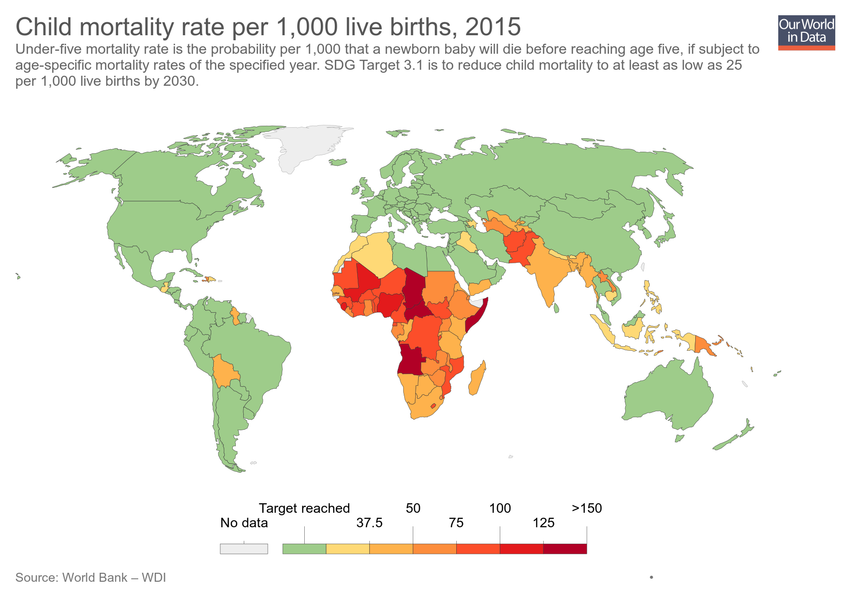
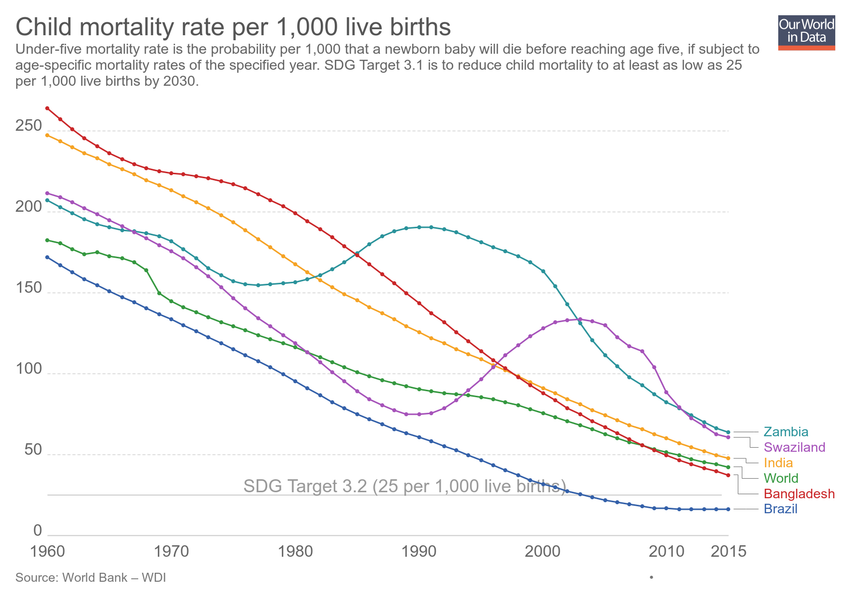
Updating chart child-mortality-sdgs

diff --git a/grapher/child-mortality-sdgs.html b/grapher/child-mortality-sdgs.html
@@ -1,4 +1,4 @@
-<!doctype html><html><head><meta name="viewport" content="width=device-width, initial-scale=1" /><title>Child mortality rate per 1,000 live births - Our World in Data</title><meta name="description" content="Under-five mortality rate is the probability per 1,000 that a newborn baby will die before reaching age five, if subject to age-specific mortality rates of the specified year. SDG Target 3.1 is to reduce child mortality to at least as low as 25 per 1,000 live births by 2030." /><link rel="canonical" href="https://ourworldindata.org/grapher/child-mortality-sdgs" /><meta property="fb:app_id" content="1149943818390250" /><meta property="og:url" content="https://ourworldindata.org/grapher/child-mortality-sdgs" /><meta property="og:title" content="Child mortality rate per 1,000 live births" /><meta property="og:description" content="Under-five mortality rate is the probability per 1,000 that a newborn baby will die before reaching age five, if subject to age-specific mortality rates of the specified year. SDG Target 3.1 is to reduce child mortality to at least as low as 25 per 1,000 live births by 2030." /><meta property="og:image" content="https://ourworldindata.org/grapher/exports/child-mortality-sdgs.png?v=4" /><meta property="og:image:width" content="850" /><meta property="og:image:height" content="600" /><meta property="og:site_name" content="Our World in Data" /><meta name="twitter:card" content="summary_large_image" /><meta name="twitter:site" content="@OurWorldInData" /><meta name="twitter:creator" content="@OurWorldInData" /><meta name="twitter:title" content="Child mortality rate per 1,000 live births" /><meta name="twitter:description" content="Under-five mortality rate is the probability per 1,000 that a newborn baby will die before reaching age five, if subject to age-specific mortality rates of the specified year. SDG Target 3.1 is to reduce child mortality to at least as low as 25 per 1,000 live births by 2030." /><meta name="twitter:image" content="https://ourworldindata.org/grapher/exports/child-mortality-sdgs.png?v=4" /><style>
+<!doctype html><html><head><meta name="viewport" content="width=device-width, initial-scale=1" /><title>Child mortality rate per 1,000 live births - Our World in Data</title><meta name="description" content="Under-five mortality rate is the probability per 1,000 that a newborn baby will die before reaching age five, if subject to age-specific mortality rates of the specified year. SDG Target 3.1 is to reduce child mortality to at least as low as 25 per 1,000 live births by 2030." /><link rel="canonical" href="https://ourworldindata.org/grapher/child-mortality-sdgs" /><meta property="fb:app_id" content="1149943818390250" /><meta property="og:url" content="https://ourworldindata.org/grapher/child-mortality-sdgs" /><meta property="og:title" content="Child mortality rate per 1,000 live births" /><meta property="og:description" content="Under-five mortality rate is the probability per 1,000 that a newborn baby will die before reaching age five, if subject to age-specific mortality rates of the specified year. SDG Target 3.1 is to reduce child mortality to at least as low as 25 per 1,000 live births by 2030." /><meta property="og:image" content="https://ourworldindata.org/grapher/exports/child-mortality-sdgs.png?v=6" /><meta property="og:image:width" content="850" /><meta property="og:image:height" content="600" /><meta property="og:site_name" content="Our World in Data" /><meta name="twitter:card" content="summary_large_image" /><meta name="twitter:site" content="@OurWorldInData" /><meta name="twitter:creator" content="@OurWorldInData" /><meta name="twitter:title" content="Child mortality rate per 1,000 live births" /><meta name="twitter:description" content="Under-five mortality rate is the probability per 1,000 that a newborn baby will die before reaching age five, if subject to age-specific mortality rates of the specified year. SDG Target 3.1 is to reduce child mortality to at least as low as 25 per 1,000 live births by 2030." /><meta name="twitter:image" content="https://ourworldindata.org/grapher/exports/child-mortality-sdgs.png?v=6" /><style>
         html, body {
             height: 100%;
             margin: 0;
@@ -20,8 +20,8 @@
         }
     </style><noscript><style>
                     figure { display: none !important; }
-                </style></noscript><link rel="stylesheet" href="https://ourworldindata.org/grapher/assets/commons.bundle.dcbbe53805c487d5e57617b10ac73a8a.css" /><link rel="preload" href="/grapher/data/variables/3398.json?v=4" as="fetch" crossorigin /></head><body class="singleChart"><figure data-grapher-src="/grapher/child-mortality-sdgs"></figure><noscript id="fallback"><img src="/grapher/exports/child-mortality-sdgs.svg" /><p>Interactive visualization requires JavaScript</p></noscript><script src="https://cdn.polyfill.io/v2/polyfill.min.js?features=es6,fetch"></script><script src="https://ourworldindata.org/grapher/assets/commons.bundle.da523acc49807a06a11f.js"></script><script src="https://ourworldindata.org/grapher/assets/charts.bundle.da523acc49807a06a11f.js"></script><script>
-        var jsonConfig = {"id":2653,"map":{"projection":"World","targetYear":2015,"variableId":3398,"equalSizeBins":true,"baseColorScheme":"YlOrRd","isManualBuckets":true,"colorSchemeLabels":["Target reached","","","","","",null],"colorSchemeValues":[25.1,37.5,50,75,100,125,150],"customColorsActive":true,"customNumericColors":["#9ecc8a",null,null,null,null,null],"customCategoryColors":{},"customCategoryLabels":{},"customHiddenCategories":{}},"tab":"map","slug":"child-mortality-sdgs","type":"LineChart","title":"Child mortality rate per 1,000 live births","xAxis":{"scaleType":"linear"},"yAxis":{"min":0,"scaleType":"linear"},"version":4,"subtitle":"Under-five mortality rate is the probability per 1,000 that a newborn baby will die before reaching age five, if subject to age-specific mortality rates of the specified year. SDG Target 3.1 is to reduce child mortality to at least as low as 25 per 1,000 live births by 2030.","hasMapTab":true,"stackMode":"absolute","dimensions":[{"display":{"unit":"deaths per 1,000 live births","conversionFactor":1},"property":"y","variableId":3398}],"hasChartTab":true,"isPublished":true,"selectedData":[{"index":0,"entityId":355},{"index":0,"entityId":137},{"index":0,"entityId":37},{"index":0,"entityId":60},{"index":0,"entityId":78},{"index":0,"entityId":28}],"internalNotes":"For SDG Tracker","addCountryMode":"add-country","comparisonLine":{"label":"SDG Target 3.1 (25 per 1,000)","yEquals":"25"}};
+                </style></noscript><link rel="stylesheet" href="https://ourworldindata.org/grapher/assets/commons.bundle.dcbbe53805c487d5e57617b10ac73a8a.css" /><link rel="preload" href="/grapher/data/variables/3398.json?v=6" as="fetch" crossorigin /></head><body class="singleChart"><figure data-grapher-src="/grapher/child-mortality-sdgs"></figure><noscript id="fallback"><img src="/grapher/exports/child-mortality-sdgs.svg" /><p>Interactive visualization requires JavaScript</p></noscript><script src="https://cdn.polyfill.io/v2/polyfill.min.js?features=es6,fetch"></script><script src="https://ourworldindata.org/grapher/assets/commons.bundle.da523acc49807a06a11f.js"></script><script src="https://ourworldindata.org/grapher/assets/charts.bundle.da523acc49807a06a11f.js"></script><script>
+        var jsonConfig = {"id":2653,"map":{"projection":"World","targetYear":2015,"variableId":3398,"equalSizeBins":true,"baseColorScheme":"YlOrRd","isManualBuckets":true,"colorSchemeLabels":["Target reached","","","","","",null],"colorSchemeValues":[25.1,37.5,50,75,100,125,150],"customColorsActive":true,"customNumericColors":["#9ecc8a",null,null,null,null,null],"customCategoryColors":{},"customCategoryLabels":{},"customHiddenCategories":{}},"tab":"chart","slug":"child-mortality-sdgs","type":"LineChart","title":"Child mortality rate per 1,000 live births","xAxis":{"scaleType":"linear"},"yAxis":{"min":0,"scaleType":"linear"},"version":6,"subtitle":"Under-five mortality rate is the probability per 1,000 that a newborn baby will die before reaching age five, if subject to age-specific mortality rates of the specified year. SDG Target 3.1 is to reduce child mortality to at least as low as 25 per 1,000 live births by 2030.","hasMapTab":true,"stackMode":"absolute","dimensions":[{"display":{"unit":"deaths per 1,000 live births","conversionFactor":1},"property":"y","variableId":3398}],"hasChartTab":true,"isPublished":true,"selectedData":[{"index":0,"entityId":355},{"index":0,"entityId":137},{"index":0,"entityId":37},{"index":0,"entityId":60},{"index":0,"entityId":78},{"index":0,"entityId":28}],"internalNotes":"For SDG Tracker","addCountryMode":"add-country","comparisonLine":{"label":"SDG Target 3.2 (25 per 1,000 live births)","yEquals":"25"}};
         var figure = document.getElementsByTagName("figure")[0];
         try {
             window.App = {};
